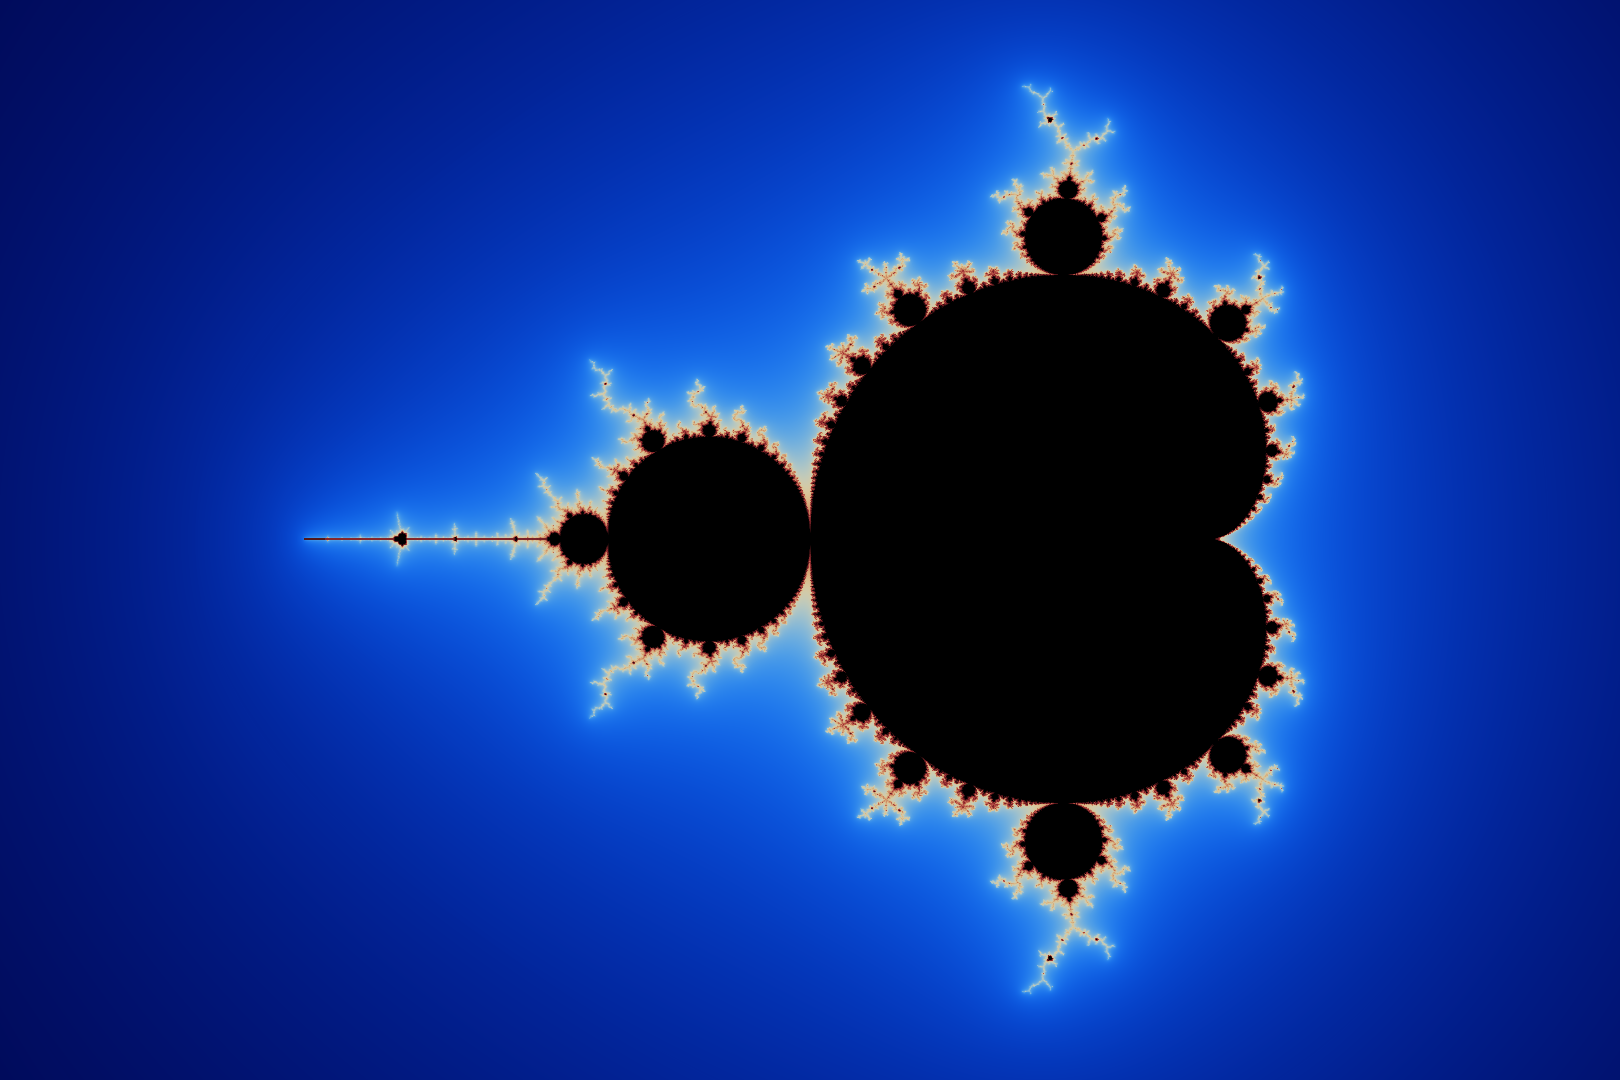
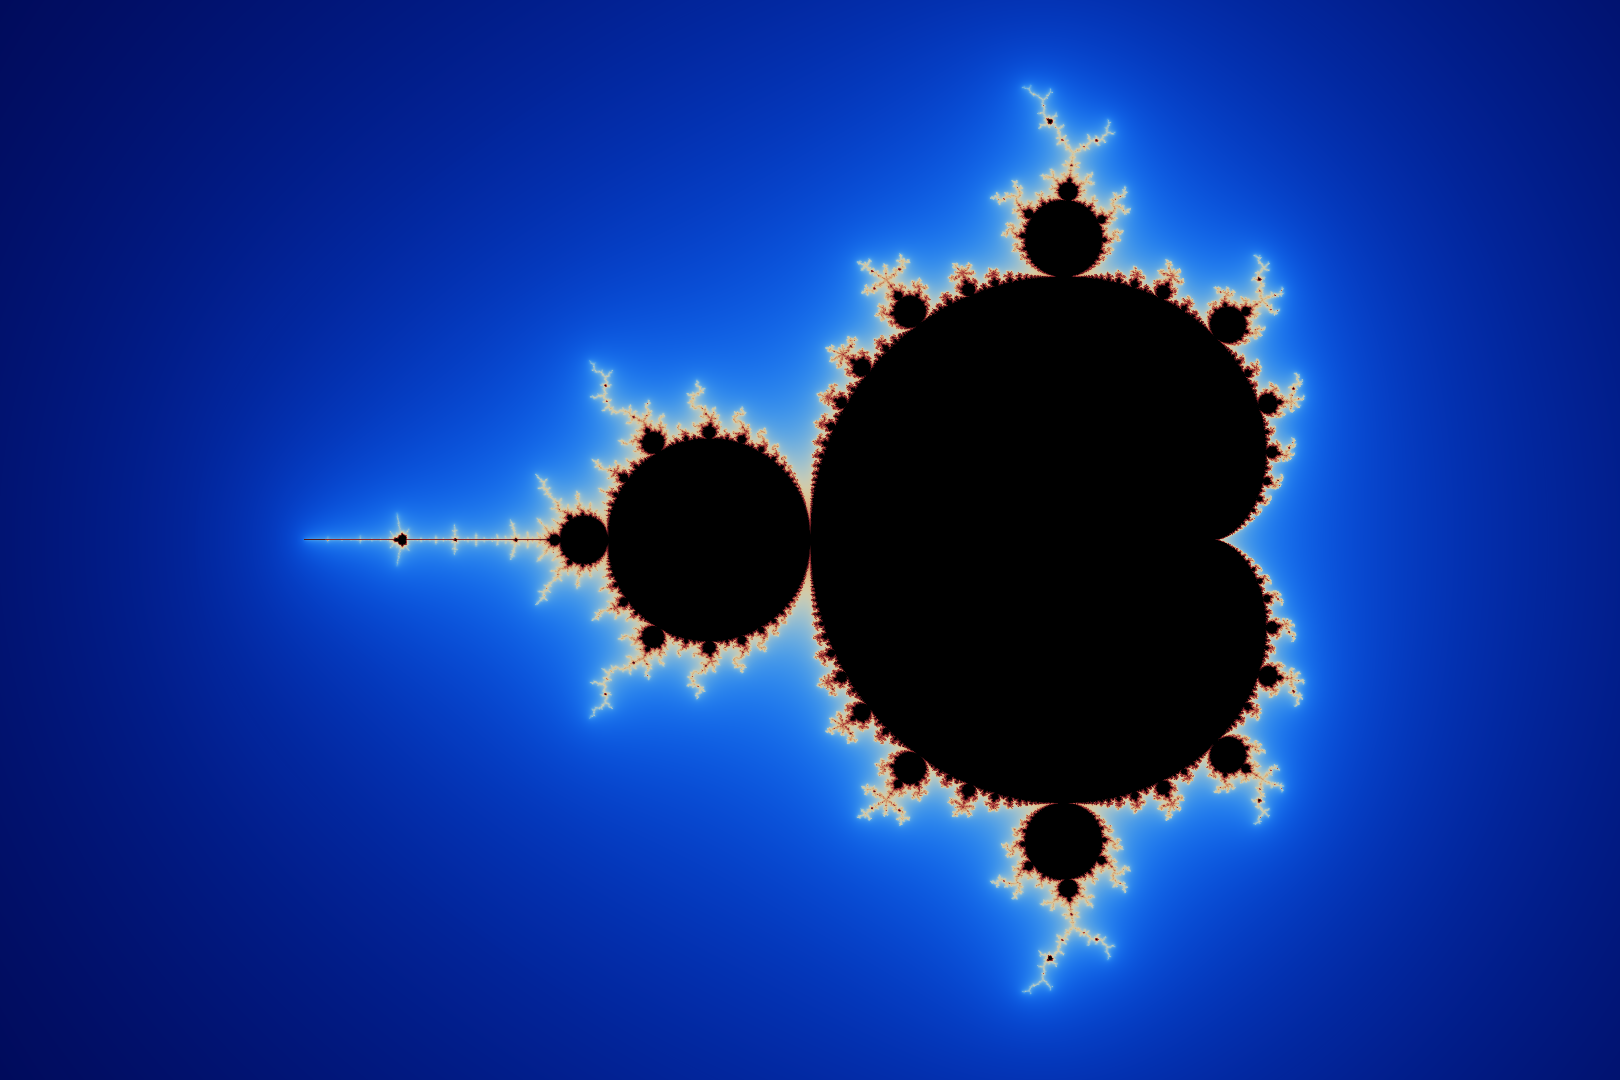
Removed mirroring as an option, instead apply it automatically to large enough images

Changed region(s): [[0.3395, 0.1222, 0.8025, 0.4889], [0.7716, 0.3361, 0.8025, 0.4889], [0.2469, 0.4889, 0.3395, 0.5194]]

diff --git a/src/mandelbrot.rs b/src/mandelbrot.rs
@@ -16,8 +16,12 @@ const RESTRICT_SSAA_REGION: bool = true;
 const SHOW_SSAA_REGION: bool = false;
 
 // If the escape speed of a point is larger than this,
-// supersampling will be aborted
+// supersampling will be aborted.
 const SSAA_REGION_CUTOFF: f64 = 0.95;
+
+// Set to false to never mirror the image
+// regardless of resolution.
+const ENABLE_MIRRORING: bool = true;
 // --------------------------------------
 
 const NUM_COLOR_CHANNELS: usize = 3;
@@ -64,8 +68,9 @@ pub fn render(
     // True if the image contains the real axis, false otherwise.
     // If the image contains the real axis we want to mirror
     // the result of the largest half on to the smallest.
-    let mirror =
-        render_parameters.mirror && draw_region.center_imag.abs() < draw_region.imag_distance;
+    let mirror = ENABLE_MIRRORING
+        && render_parameters.mirror
+        && draw_region.center_imag.abs() < draw_region.imag_distance;
 
     // One way of doing this is to always assume that the half with negative
     // imaginary part is the larger one. If the assumption is false

diff --git a/src/main.rs b/src/main.rs
@@ -20,7 +20,7 @@ const DEFAULT_FILE_EXTENSION: &str = "png";
 fn main() -> Result<(), Box<dyn Error>> {
     let args = Cli::parse();
 
-    let xresolution = (args.aspect_ratio * (args.pixels.get() as f64)) as usize;
+    let x_resolution = (args.aspect_ratio * (args.pixels.get() as f64)) as usize;
 
     let zoom = 2.0_f64.powf(args.zoom);
 
@@ -35,12 +35,15 @@ fn main() -> Result<(), Box<dyn Error>> {
     );
 
     let render_parameters = RenderParameters::new(
-        xresolution.try_into()?,
+        x_resolution.try_into()?,
         args.pixels,
         args.max_iterations,
         args.ssaa,
         args.grayscale,
-        !args.disable_mirroring,
+        // Only mirror at large resolutions.
+        // The "thickening" of the real axis becomes
+        // very noticable at smaller resolutions.
+        args.pixels.get() >= 1500,
     );
 
     give_user_feedback(&args, &render_parameters)?;

diff --git a/src/command_line_interface.rs b/src/command_line_interface.rs
@@ -95,10 +95,6 @@ pub struct Cli {
     #[arg(short, long, default_value = "renders", value_name = "OUTPUT FOLDER")]
     /// The folder in which to save the resulting image
     pub output_folder: String,
-
-    #[arg(long)]
-    /// Do not mirror the image in the real axis
-    pub disable_mirroring: bool,
 }
 
 /// Tries to parse the input string slice into an f64 >= 0.
